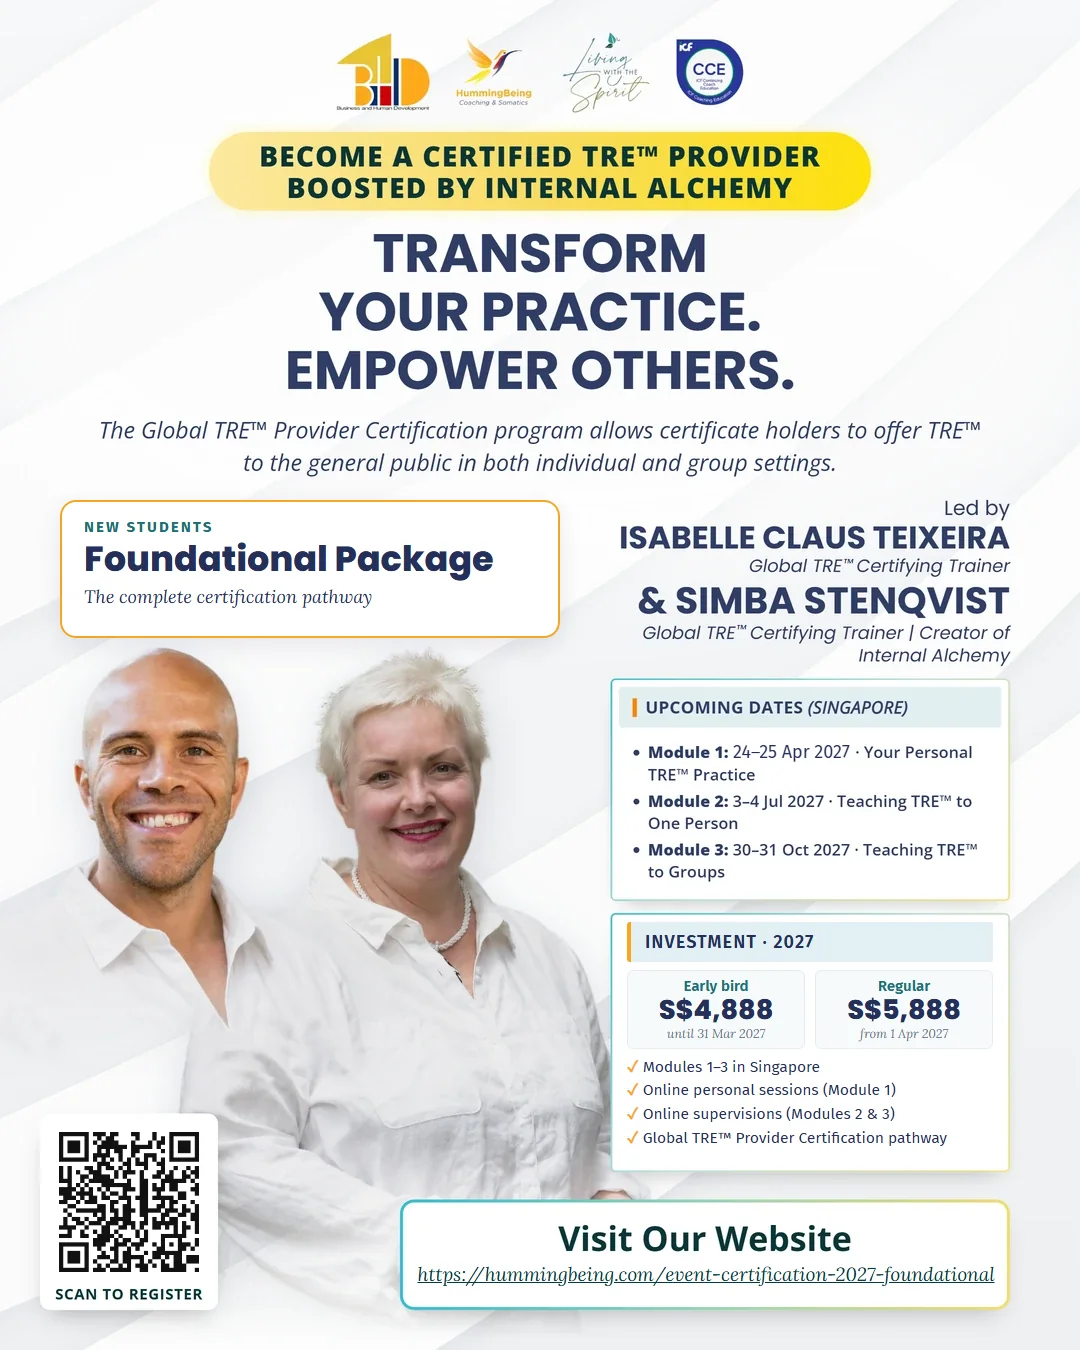
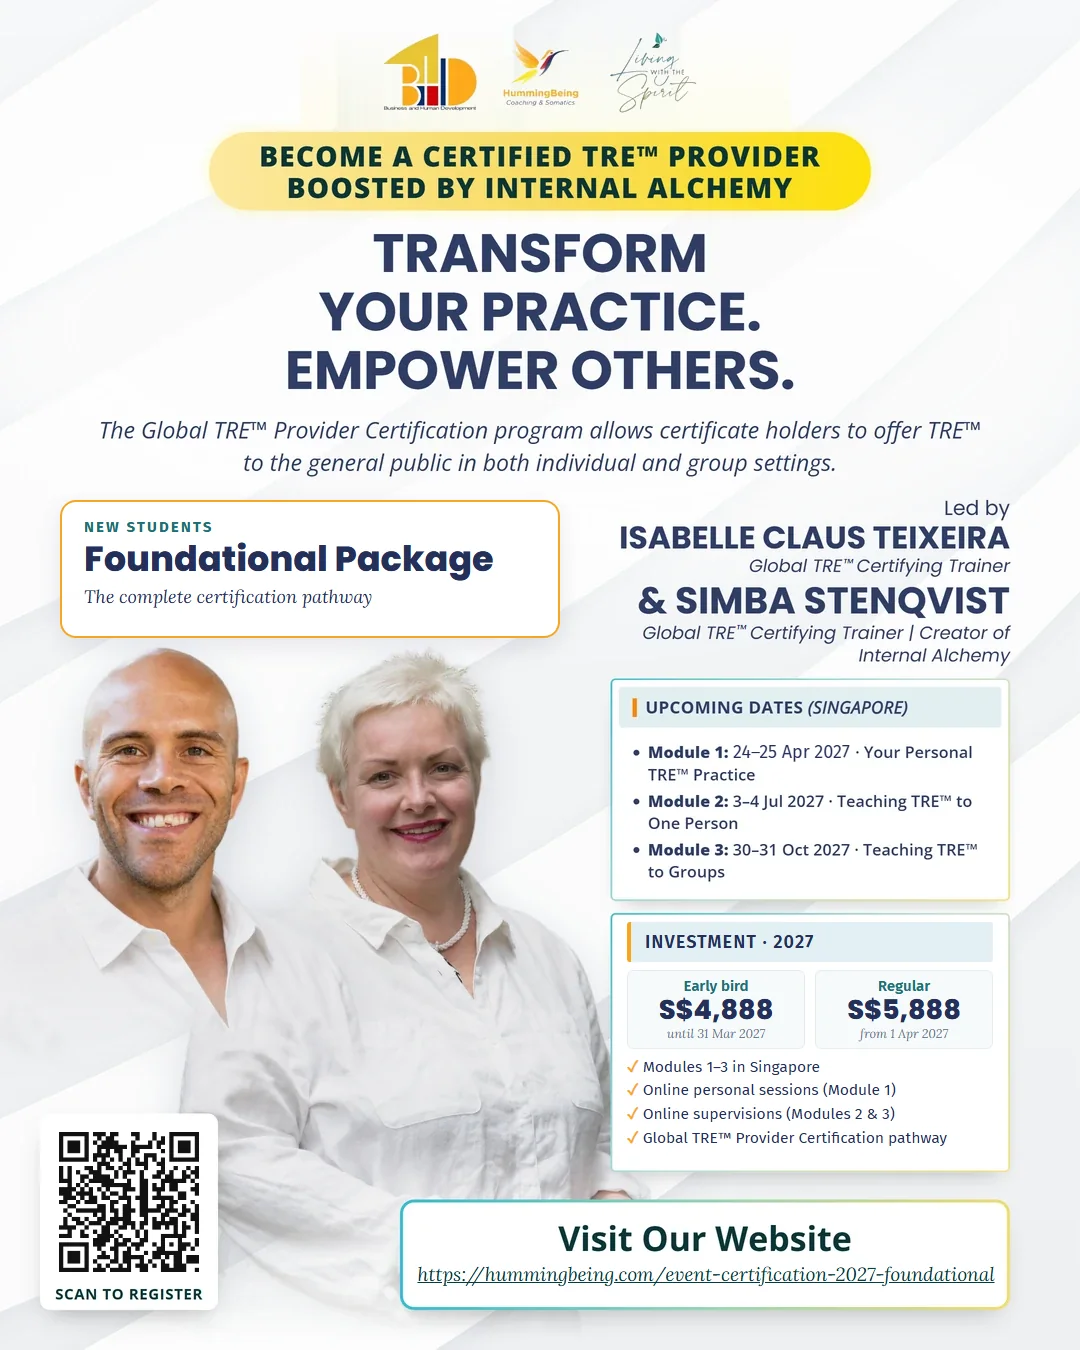
Events script data: 8 Oct online session sold out (+03:00); Foundational poster without ICF CCE badge (package has no ICF credits)

Changed region(s): [[0.3056, 0.0311, 0.7028, 0.0933]]

diff --git a/event-certification-2027-foundational.html b/event-certification-2027-foundational.html
@@ -308,7 +308,7 @@ height="0" width="0" style="display:none;visibility:hidden"></iframe></noscript>
 <div class="ce-layout">
   <div class="ce-main">
     <figure class="ce-poster ce-poster-portrait" id="ce-poster" role="button" tabindex="0" aria-label="View full-size event poster" style="max-width:100%">
-      <img src="images/event-certification-2027-foundational-poster.webp?v=20261107b" alt="TRE&#8482; Provider Certification 2027 Singapore, Foundational Package, led by Isabelle Claus Teixeira and Simba Stenqvist; modules 24&#8211;25 Apr, 3&#8211;4 Jul and 30&#8211;31 Oct 2027." width="1080" height="1350" fetchpriority="high" decoding="async" />
+      <img src="images/event-certification-2027-foundational-poster.webp?v=20261108a" alt="TRE&#8482; Provider Certification 2027 Singapore, Foundational Package, led by Isabelle Claus Teixeira and Simba Stenqvist; modules 24&#8211;25 Apr, 3&#8211;4 Jul and 30&#8211;31 Oct 2027." width="1080" height="1350" fetchpriority="high" decoding="async" />
       <span class="ce-zoom-hint"><i class="fa-solid fa-magnifying-glass-plus"></i> Click to enlarge</span>
     </figure>
     <h2>The Foundational Package</h2>
@@ -565,7 +565,7 @@ function evtlSubmit(e) {
 <script src="gdpr-consent.js?v=4"></script>
 <div class="ce-lightbox" id="ce-lightbox" aria-hidden="true">
   <button class="ce-lightbox-close" id="ce-lightbox-close" aria-label="Close">&times;</button>
-  <img src="images/event-certification-2027-foundational-poster.webp?v=20261107b" alt="Foundational Package 2027 - full event poster" />
+  <img src="images/event-certification-2027-foundational-poster.webp?v=20261108a" alt="Foundational Package 2027 - full event poster" />
 </div>
 <script>
 (function(){

diff --git a/events.html b/events.html
@@ -2260,7 +2260,7 @@ height="0" width="0" style="display:none;visibility:hidden"></iframe></noscript>
     { title:'From Shaking to Shaping &mdash; Online',
       sub:'Online &middot; 8 October 2026 &middot; 7&#8211;9pm',
       metaCal:'Thursday, 8 October 2026', metaLoc:'Live Online', metaIcon:'fa-solid fa-video',
-      date:'2026-10-08T19:00:00+02:00', href:'/event-shaking-online', soldOut:false },
+      date:'2026-10-08T19:00:00+03:00', href:'/event-shaking-online', soldOut:true },
     { title:'TRE&#8482; Module 1 &mdash; Bucharest',
       sub:'Bucharest &middot; 15&#8211;17 October 2026',
       metaCal:'15&#8211;17 October 2026', metaLoc:'Bucharest, Romania', metaIcon:'fa-solid fa-location-dot',
